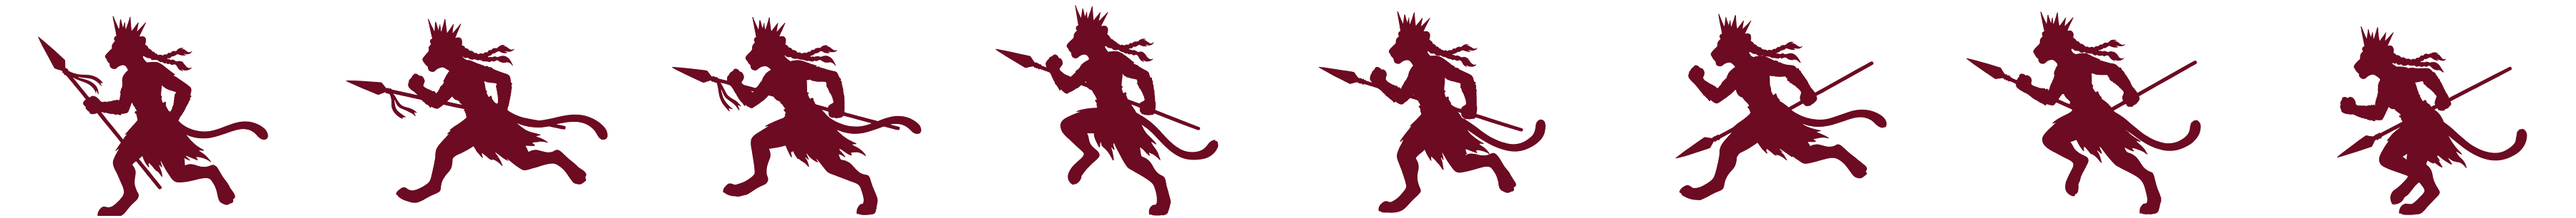
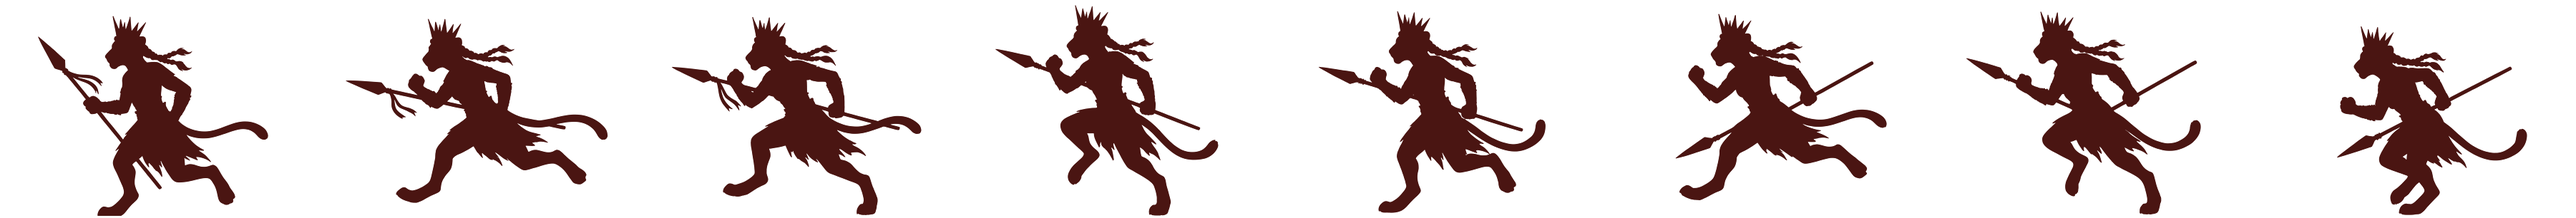
Runner in background red, faster mountains, fuller Claude credit
- Hero runner recoloured to the page-background dark red
- Mountain layers loop in 24s instead of 60s (2.5x faster)
- Honors: the special-thanks line says Claude wrote all of the code

diff --git a/about.html b/about.html
@@ -46,7 +46,7 @@
       <h1 id="honors-heading">Honors</h1>
       <hr class="divider">
       <p>The Nekoropolis could not have raised its banners without the work of its clans.</p>
-      <p>Special thanks to <a href="https://claude.ai">Claude</a>.</p>
+      <p>Special thanks to <a href="https://claude.ai">Claude</a>, an AI assistant made by Anthropic, who wrote all of the code for this site: every line of HTML, CSS and JavaScript.</p>
       <p><a href="https://fonts.google.com/specimen/Grenze+Gotisch">Grenze Gotisch</a> (Renata Polastri / Omnibus-Type) and <a href="https://fonts.google.com/specimen/Raleway">Raleway</a> were used from Google Fonts under the <a href="https://openfontlicense.org/">SIL Open Font Licence</a>. Headings are set in Scratchies by Darrell Flood, and the paw prints in the background come from AnimalTracks by Andrew D. Taylor.</p>
       <p>Browser styles were steadied with <a href="https://necolas.github.io/normalize.css/">normalize.css</a> by Nicolas Gallagher and Jonathan Neal.</p>
     </section>

diff --git a/css/styles.css b/css/styles.css
@@ -232,7 +232,7 @@ a:hover {
   background-repeat: repeat-x;
   background-size: var(--tile-w) 100%;
   background-position: 0 100%;
-  animation: hero-scroll 60s linear infinite;
+  animation: hero-scroll 24s linear infinite;
 }
 
 /* each layer moves a whole number of tiles per loop (3, 2, 1), so the loop is
@@ -255,7 +255,7 @@ a:hover {
   bottom: calc(var(--fang-h) + 0.5rem);
   height: 45%;
   aspect-ratio: 450 / 306; /* one frame */
-  background: url("../images/hero-runner.png") 0 0 / 800% 100% no-repeat; /* logo-red silhouette */
+  background: url("../images/hero-runner.png") 0 0 / 800% 100% no-repeat; /* silhouette in the page-background red */
   animation: hero-run 0.8s steps(8) infinite;
 }
 
